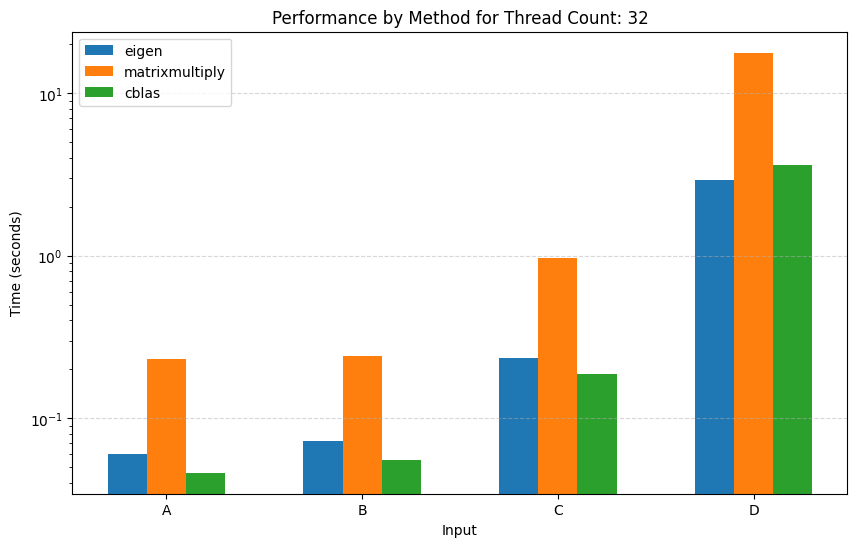
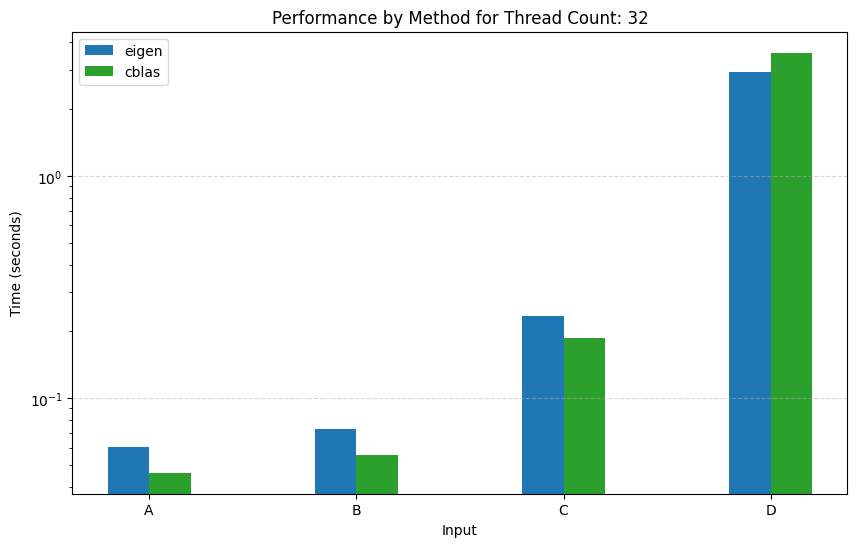
Updating graphs

diff --git a/plot_gen/plot.py b/plot_gen/plot.py
@@ -1,6 +1,7 @@
 import numpy as np
 import matplotlib.pyplot as plt
 import json
+import os
 
 def main():
     # Parse the data
@@ -11,7 +12,9 @@ def main():
     thread_counts = [1, 2, 4, 8, 16, 32, 48]
 
     for thread_count in thread_counts:
-        generate_plot(data, thread_count=thread_count, save_path=f"graphs/results_graph_{thread_count}", show=False)
+        save_path = f"graphs/results_graph_{thread_count}.png"
+        os.makedirs(os.path.dirname(save_path), exist_ok=True)
+        generate_plot(data, thread_count=thread_count, save_path=save_path, show=False)
 
 def generate_plot(data, thread_count, save_path=None, show=True):
     """
@@ -25,17 +28,23 @@ def generate_plot(data, thread_count, save_path=None, show=True):
     """
 
     # Ensure thread_count is a string
-    thread_count = str(thread_count)
+    thread_count_str = str(thread_count)
 
     # Set categories
     inputs = ['input_a', 'input_b', 'input_c', 'input_d']
-    methods = ['eigen', 'matrixmultiply', 'cblas']
-    colors = ['#1f77b4', '#ff7f0e', '#2ca02c']  # Optional color scheme
+    
+    # If thread count > 4, drop 'matrixmultiply'
+    if int(thread_count) > 4:
+        methods = ['eigen', 'cblas']
+        colors = ['#1f77b4', '#2ca02c']
+    else:
+        methods = ['eigen', 'matrixmultiply', 'cblas']
+        colors = ['#1f77b4', '#ff7f0e', '#2ca02c']
 
     # Collect the data
     y_values = []
     for input_key in inputs:
-        method_values = [data[thread_count][input_key][method] for method in methods]
+        method_values = [data[thread_count_str][input_key][method] for method in methods]
         y_values.append(method_values)
 
     # Convert to numpy array for plotting
@@ -44,7 +53,8 @@ def generate_plot(data, thread_count, save_path=None, show=True):
     # Bar chart settings
     x = np.arange(len(inputs))  # input positions
     width = 0.2  # width of each bar
-    offsets = [-width, 0, width]  # for 3 bars per group
+    num_methods = len(methods)
+    offsets = [(i - (num_methods - 1)/2) * width for i in range(num_methods)]
 
     fig, ax = plt.subplots(figsize=(10, 6))
 
@@ -63,6 +73,8 @@ def generate_plot(data, thread_count, save_path=None, show=True):
 
     # Save or Show
     if save_path:
+        if not save_path.lower().endswith(('.png', '.jpg', '.jpeg', '.pdf')):
+            save_path += '.png'
         plt.savefig(save_path, bbox_inches='tight')
     if show:
         plt.show()
